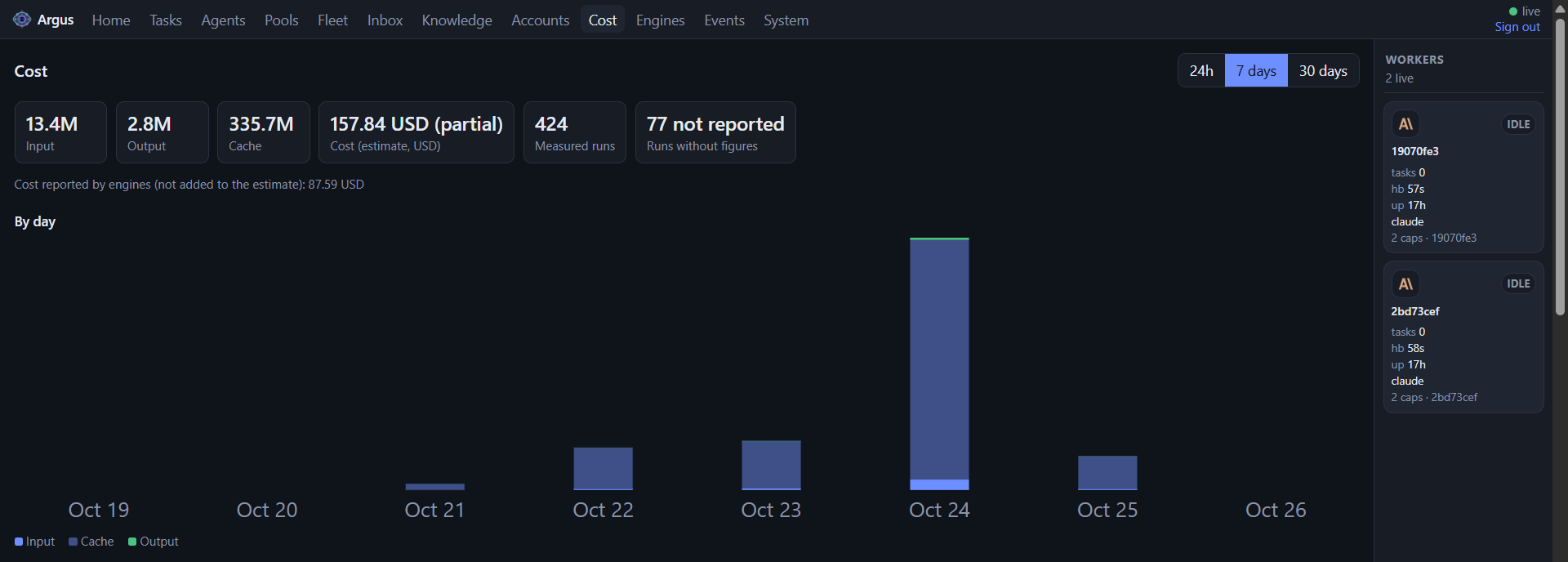
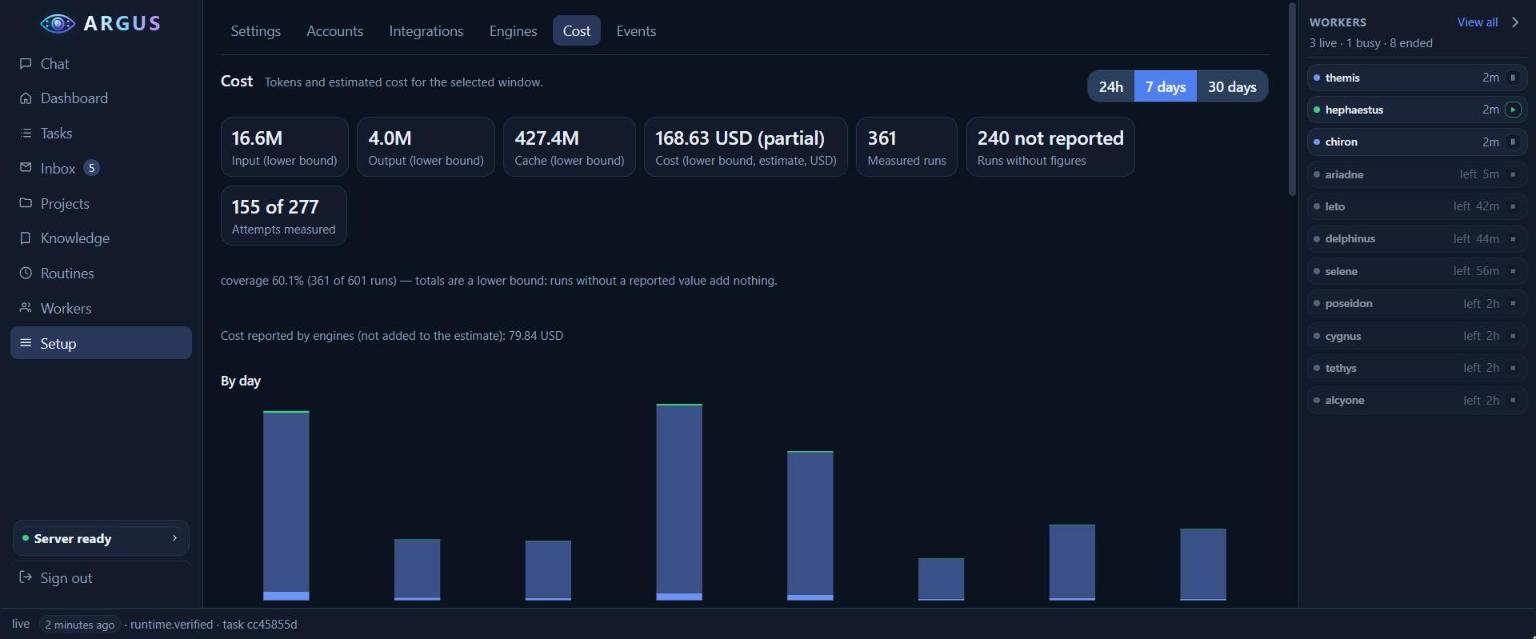
docs(readme): describe current features and refresh dashboard screenshots (#453)
The README still showed the October dashboard (twelve top-level tabs) and
did not mention chat, execution chains, PR delivery, projects or routines.

- Feature list: built-in orchestrator chat, routes per difficulty with an
  independent reviewer, delivery evidence from the forge, projects,
  routines and knowledge; OpenCode and Antigravity among the engines.
- Layout lists packages/api-client, skills, evals and scripts.
- Page names follow the nine-entry menu (Workers > Agents,
  Dashboard > System).
- New screenshots: dashboard, tasks, task detail, routines, fleet, cost.
  Engines and System are dropped; home.png is renamed dashboard.png.

diff --git a/README.md b/README.md
@@ -16,8 +16,8 @@
 </p>
 
 **For** teams and solo developers who run several AI coding agents (Claude Code,
-Codex, Cursor, Copilot, local models) against their repositories and want them
-to share one queue instead of a pile of terminals.
+Codex, Cursor, Copilot, OpenCode, Antigravity, local models) against their
+repositories and want them to share one queue instead of a pile of terminals.
 
 **The problem:** each agent works alone. Nobody knows who is on which task,
 work stalls when a subscription's quota runs out, and token spend is invisible
@@ -27,13 +27,27 @@ until the bill arrives.
 accounts, and shows what it cost, and it deploys as a single container with no
 database server, broker or cloud service to run next to it.
 
+- **Chat with an orchestrator.** Describe the work in Chat; an orchestrator
+  agent turns it into tasks, routes them and works the inbox (questions,
+  reviews, approvals). It can run inside the Argus process on an API-key account,
+  with no container ([built-in orchestrator](docs/specs/builtin-orchestrator.spec.md)).
 - **Leased task queue.** Workers claim tasks under a lease and heartbeat it; an
   expired lease puts the task back, and retries, dependencies, blocking and
   steering are built in ([worker lifecycle](docs/specs/worker-lifecycle.spec.md)).
+- **Routes per difficulty.** Each difficulty, from trivial to hard, has an
+  ordered list of engine and model alternatives, and an independent reviewer
+  chain that never picks the author's model ([execution chains](docs/specs/execution-chains.spec.md)).
 - **Account failover on quota.** Provider accounts are leased by priority and
   availability; when one hits its quota the task goes back to the queue without
   spending an attempt and runs on the next usable account, or waits until one
   resets ([account selection](docs/specs/account-selection.spec.md)).
+- **Delivery you can see.** A task can be held to a merged pull request; Argus
+  reads the PR's state, CI checks and review from GitHub or Gitea and shows them
+  on the task ([task delivery](docs/specs/task-delivery.spec.md)).
+- **Projects, routines and knowledge.** Each project has its repository, task
+  defaults, board and dependency graph; routines create tasks on a cron schedule;
+  a shared wiki reaches every worker with its claim ([routines](docs/specs/routines.spec.md),
+  [knowledge](docs/specs/knowledge.spec.md)).
 - **MCP for your agents.** Claude Code, Codex and other MCP clients connect to
   `/mcp` to claim, report and complete tasks ([MCP](#connecting-agents-mcp)).
 - **Cost and usage dashboard.** Tokens and estimated spend per project,
@@ -41,32 +55,31 @@ database server, broker or cloud service to run next to it.
 - **Worker pools anywhere.** Argus starts worker containers on local or remote
   Docker hosts or Kubernetes, on request from the orchestrator or a user.
 
-Argus owns shared state (tasks, agents, assignments), exposes it to an orchestrator agent and to worker agents through an
-API, gives humans a dashboard for visibility, and deploys additional worker
-instances (containers) on request from the orchestrator or a user.
-
 **Lightweight and single-node first.** Argus is one process with one SQLite
 database (continuously backed up by Litestream) and no required external
 services: `docker run -v argus-data:/data ghcr.io/2mundos/argus:latest` is a full deployment. The fleet
 it manages can live on remote Docker hosts or Kubernetes; Argus itself stays on
 one node. See [`docs/specs/single-node.spec.md`](docs/specs/single-node.spec.md).
 
-![Argus dashboard home: items needing attention, task, agent, pool, inbox and account summaries, and live workers](assets/screenshots/home.png)
+![Argus dashboard: task, agent, pool, inbox and account summaries, and the live workers sidebar](assets/screenshots/dashboard.png)
 
 <details>
-<summary>More screenshots: Fleet, Cost, Engines, System</summary>
+<summary>More screenshots: Tasks, Task detail, Routines, Fleet, Cost</summary>
+
+**Tasks**: a project's board, from waiting to done, with each task's model and attempt.
+![Tasks: a project's task board by state](assets/screenshots/tasks.png)
+
+**Task detail**: the pull request, its CI checks and merge gate, and the execution route.
+![Task detail: pull request, checks and execution route](assets/screenshots/task-detail.png)
+
+**Routines**: recurring work on a cron schedule; each run is an ordinary task.
+![Routines: schedules, next and last runs](assets/screenshots/routines.png)
 
 **Fleet**: pool health, tasks by state, queue and run times.
 ![Fleet: pool health and tasks by state](assets/screenshots/fleet.png)
 
-**Cost**: tokens and estimated spend per day.
+**Cost**: tokens and estimated spend per day, with how much of it was measured.
 ![Cost: token usage and estimated spend by day](assets/screenshots/cost.png)
-
-**Engines**: agent CLIs (Claude Code, Codex, OpenCode, Cursor, local models).
-![Engines: installed agent CLIs and their auth status](assets/screenshots/engines.png)
-
-**System**: health checks, background loops, work counts.
-![System: health checks and background loops](assets/screenshots/system.png)
 
 </details>
 
@@ -126,6 +139,11 @@ The manual route (plain `docker run`, Compose, building from source) is under
 - `apps/dashboard/` — Operator dashboard (Vite + React + TypeScript), served by
   the API process in production.
 - `packages/core/` — Shared domain types (Python, `argus_core`).
+- `packages/api-client/` — TypeScript API client generated from the OpenAPI
+  schema (`make openapi`).
+- `skills/` — Agent skills, such as `argus-orchestrator` for running a fleet over MCP.
+- `evals/` — Model-facing evals for the orchestrator tools and worker protocol.
+- `scripts/` — Repository checks (specs, paths, language), release and dev helpers.
 - `docs/` — Specs and drafts. Spec first: nothing is built before it is written
   down in `docs/specs/` (see [`docs/README.md`](docs/README.md)).
 - `integrations/nanoclaw/` — NanoClaw channel that makes a NanoClaw agent group an
@@ -215,7 +233,7 @@ it beyond this host. Exposure is the `-p` / Compose `ports` address.
   `-v ./age-key.txt:/keys/age.txt:ro -e SOPS_AGE_KEY_FILE=/keys/age.txt`
   `-e SOPS_AGE_RECIPIENTS=age1…` (`age-keygen -o age-key.txt`).
 - Workers: `-e ARGUS_PUBLIC_URL=<url>` is the address workers use to call this
-  Argus. Until it is set, Argus starts no worker and the Agents page says
+  Argus. Until it is set, Argus starts no worker and Workers › Agents says
   so; the dashboard and API work without it. Local Docker pools use
   `http://host.docker.internal:8000` (the Compose files set it, see below);
   remote hosts and Kubernetes use the URL of the TLS proxy in front of Argus.
@@ -243,7 +261,7 @@ echo-worker images, on every `main` push and when their inputs change on a PR
 | `GET /healthz` | none | liveness: the process is up |
 | `GET /readyz` | none | readiness: `503` when the database is unreadable or the writer is held over 5 s, a loop stalled, or the disk is full (`degraded` is still `200`); never takes the writer, result cached ~2 s |
 | `GET /api/metrics` | admin token | Prometheus text: tasks, agents, pools, accounts, queue age, loop health, DB and disk size |
-| `GET /api/system` | any token | the same facts as JSON; the dashboard's System tab |
+| `GET /api/system` | any token | the same facts as JSON, shown under Dashboard › System |
 
 ```yaml
 # prometheus.yml
@@ -280,7 +298,7 @@ Pods must be able to reach `ARGUS_PUBLIC_URL`. Try it on a throwaway cluster wit
 ## Connecting agents (MCP)
 
 Argus serves an MCP endpoint at `/mcp`. Register an agent (mint a bootstrap
-token in the dashboard, then `POST /api/agents/register`) and give the MCP client
+token in the dashboard under Workers › Agents, then `POST /api/agents/register`) and give the MCP client
 its token, for example with Claude Code:
 
 ```bash
